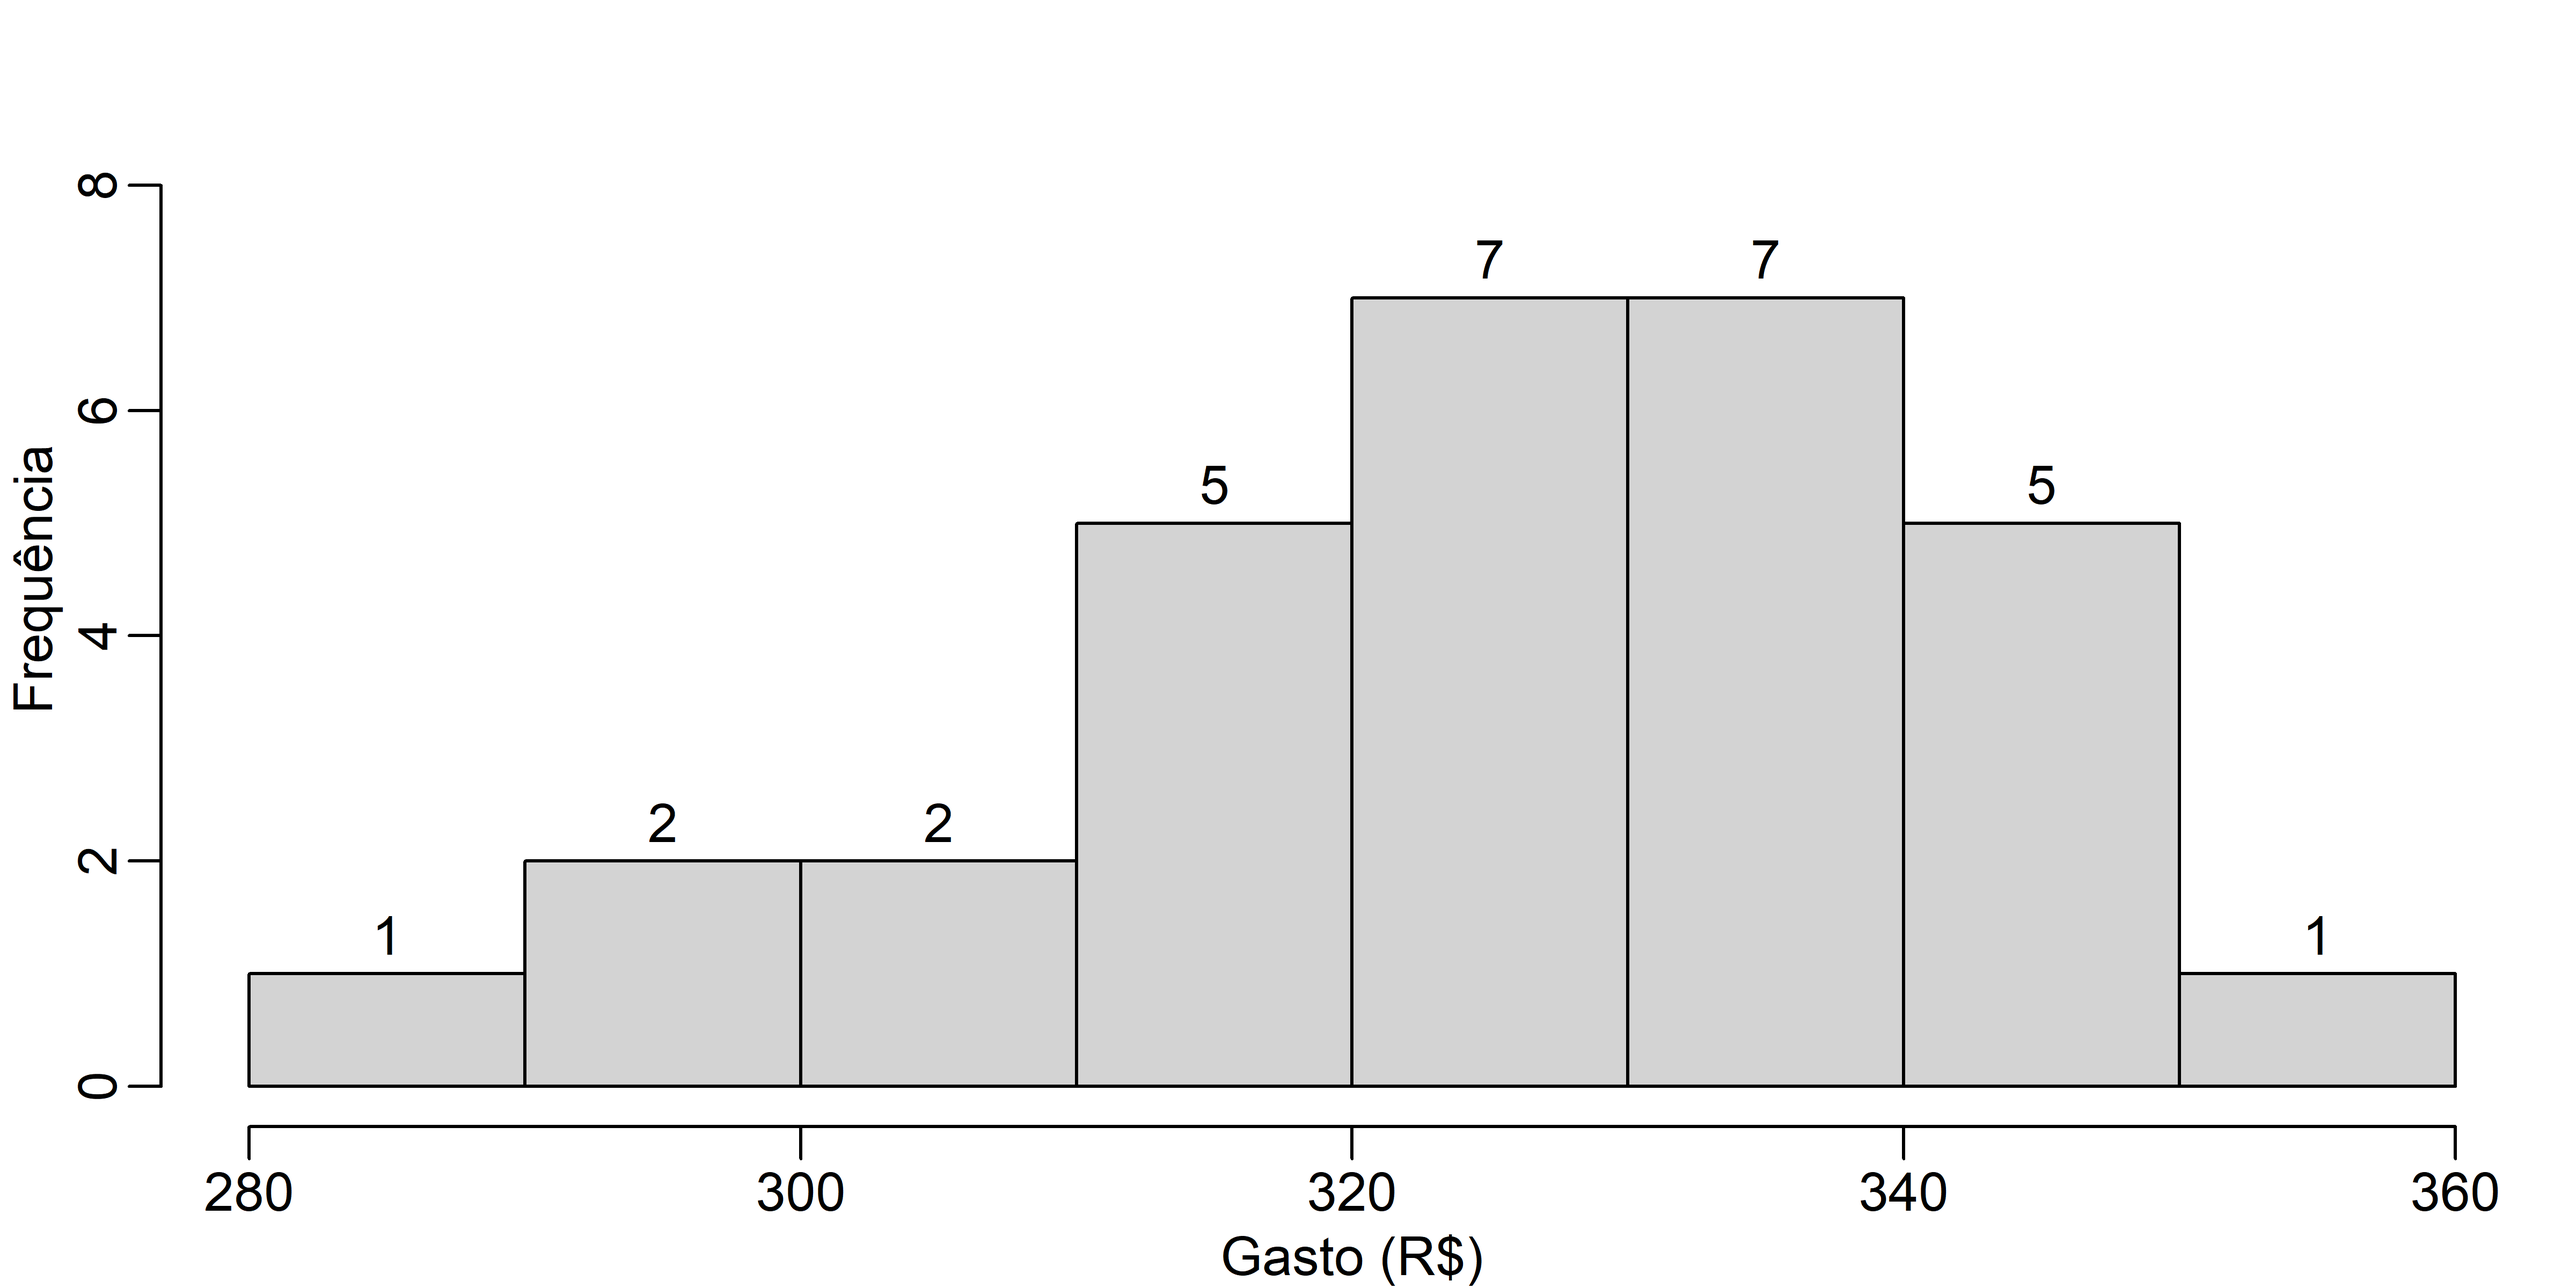
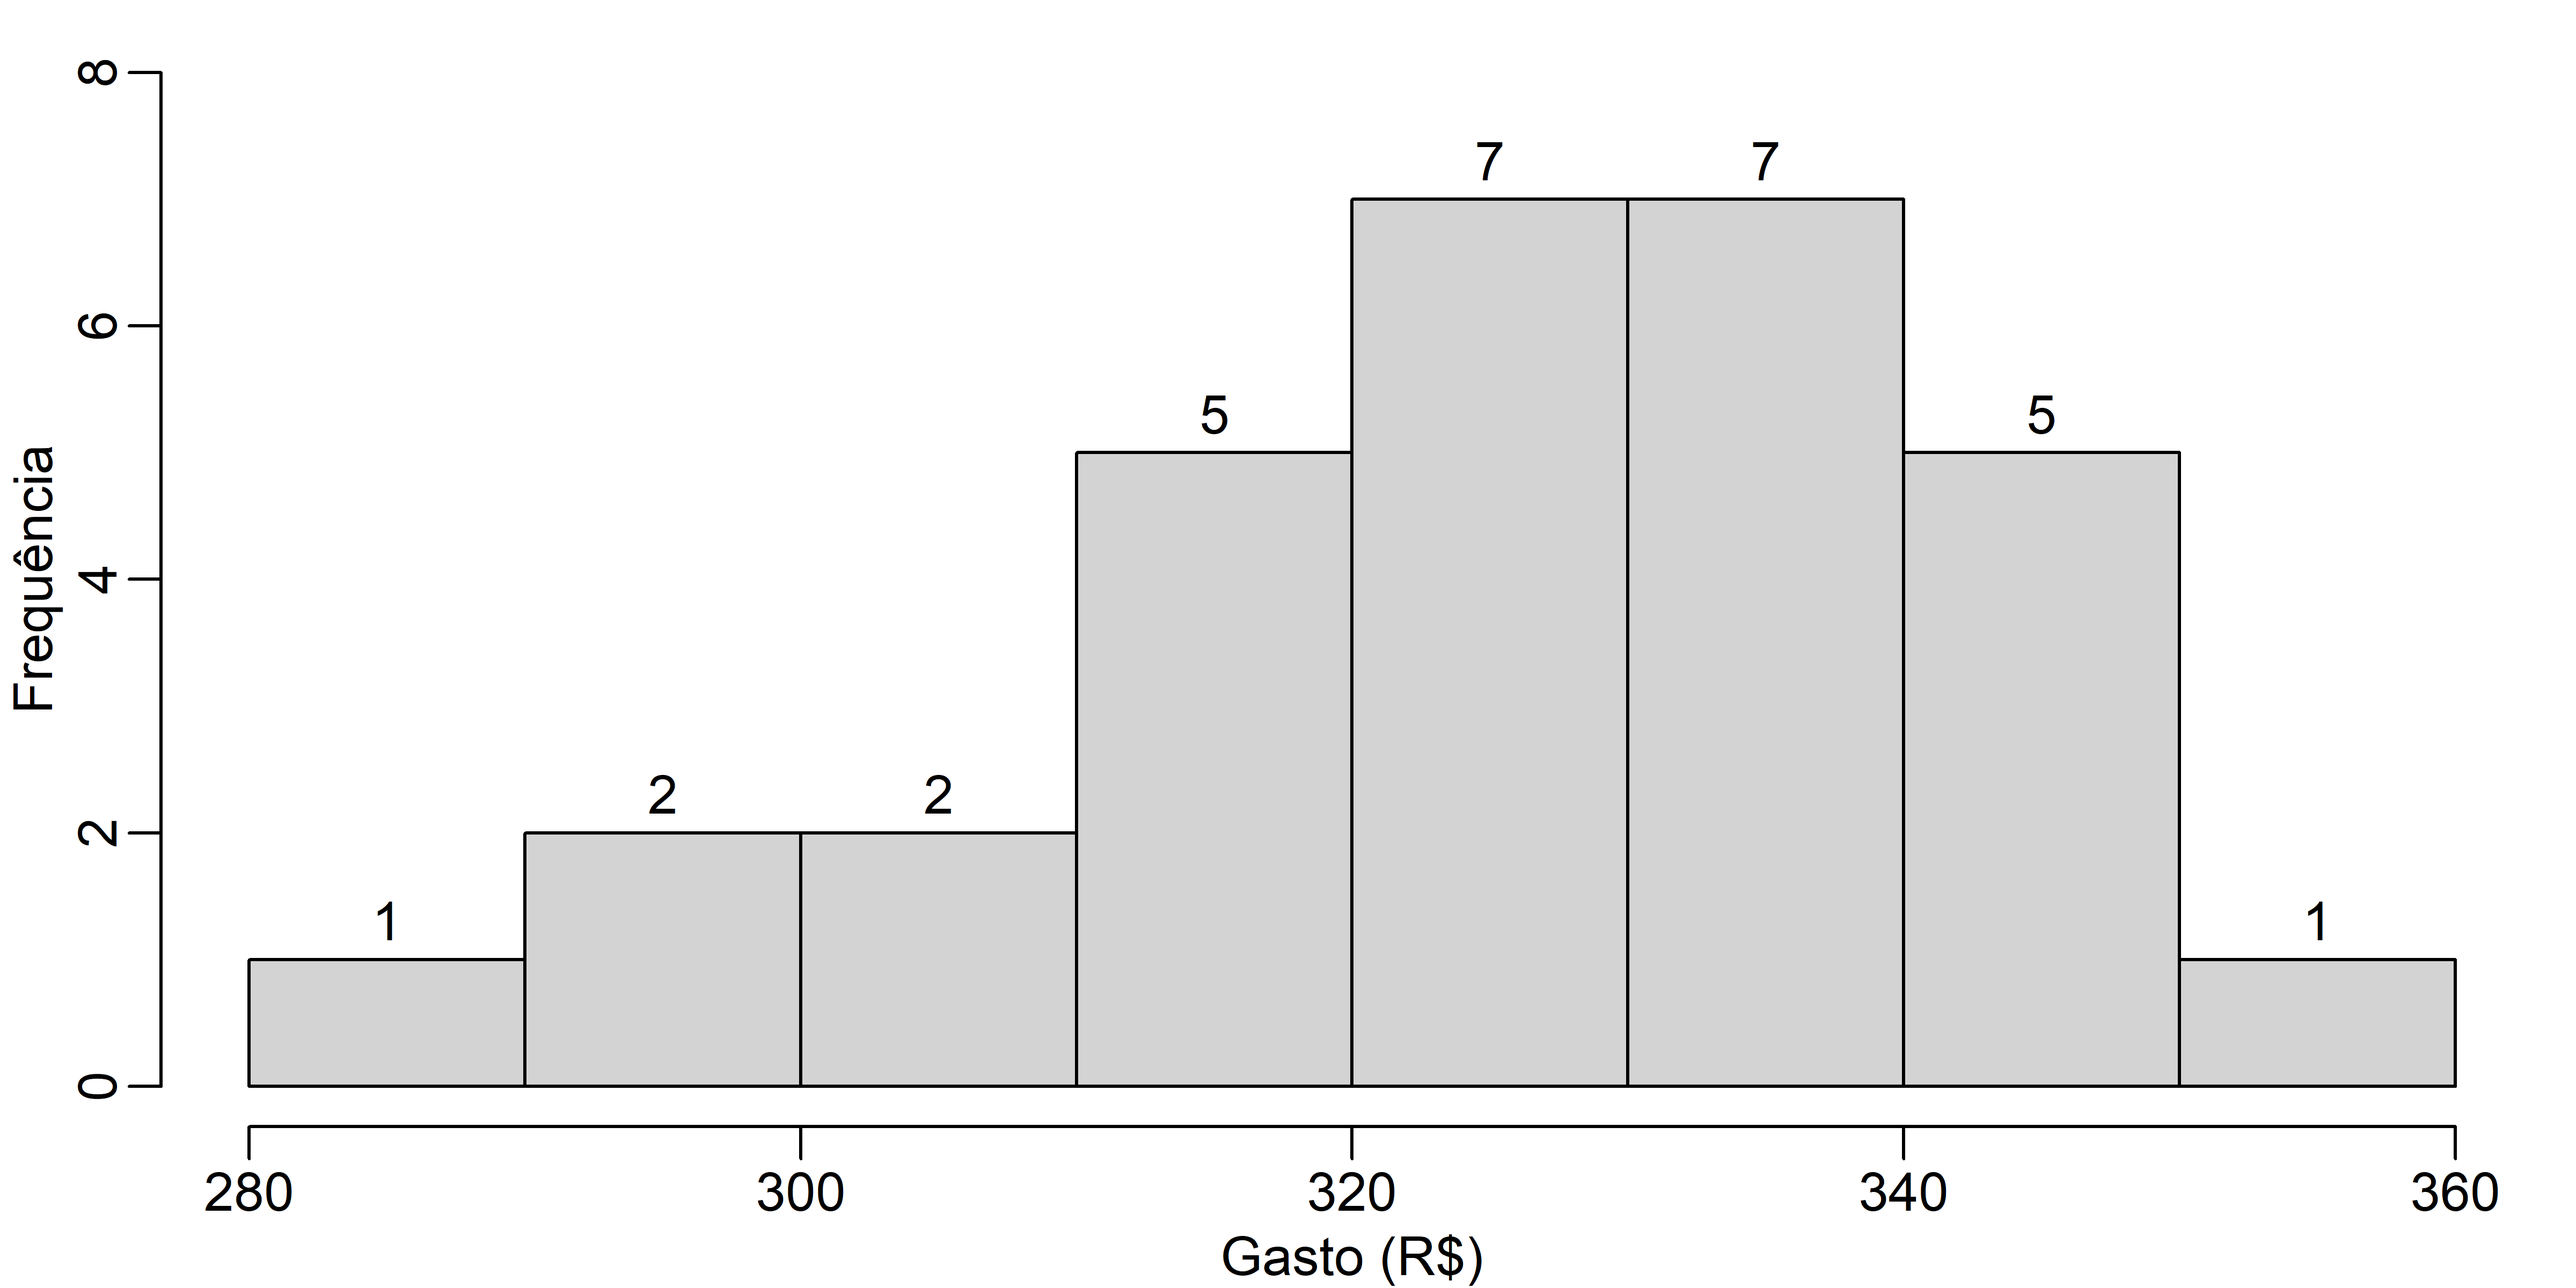
second

diff --git a/_site/lista.html b/_site/lista.html
@@ -521,18 +521,17 @@ code span.wa { color: #60a0b0; font-weight: bold; font-style: italic; } /* Warni
 <li>Faça uma tabela de distribuição de frequências (use o bom senso).</li>
 <li>Esboce um histograma.</li>
 </ul>
-<p>Histograma da frequência absoluta.</p>
 <div class="cell" data-layout-align="center" data-label="fig-hist1">
 <div class="sourceCode cell-code" id="cb29"><pre class="sourceCode r code-with-copy"><code class="sourceCode r"><span id="cb29-1"><a href="#cb29-1" aria-hidden="true" tabindex="-1"></a><span class="fu">par</span>(<span class="at">bg=</span><span class="st">"white"</span>)</span>
 <span id="cb29-2"><a href="#cb29-2" aria-hidden="true" tabindex="-1"></a><span class="fu">par</span>(<span class="at">mar=</span><span class="fu">c</span>(<span class="fl">2.5</span>,<span class="fl">2.5</span>,<span class="fl">0.5</span>,<span class="fl">0.5</span>), <span class="at">mgp=</span><span class="fu">c</span>(<span class="fl">1.5</span>,<span class="fl">0.5</span>,<span class="dv">0</span>))</span>
 <span id="cb29-3"><a href="#cb29-3" aria-hidden="true" tabindex="-1"></a><span class="fu">hist</span>(dados, <span class="at">labels =</span> T, <span class="at">main =</span> <span class="st">""</span>,</span>
 <span id="cb29-4"><a href="#cb29-4" aria-hidden="true" tabindex="-1"></a>     <span class="at">xlab =</span> <span class="st">'Gasto (R$)'</span>, <span class="at">ylab =</span> <span class="st">'Frequência'</span>,</span>
-<span id="cb29-5"><a href="#cb29-5" aria-hidden="true" tabindex="-1"></a>     <span class="at">ylim =</span><span class="fu">c</span>(<span class="dv">0</span>,<span class="dv">9</span>))</span></code><button title="Copy to Clipboard" class="code-copy-button"><i class="bi"></i></button></pre></div>
+<span id="cb29-5"><a href="#cb29-5" aria-hidden="true" tabindex="-1"></a>     <span class="at">ylim =</span><span class="fu">c</span>(<span class="dv">0</span>,<span class="dv">8</span>))</span></code><button title="Copy to Clipboard" class="code-copy-button"><i class="bi"></i></button></pre></div>
 <div class="cell-output-display">
 <div id="fig-hist1" class="quarto-figure quarto-figure-center anchored">
 <figure class="figure">
 <p><img src="lista_files/figure-html/fig-hist1-1.png" class="img-fluid figure-img" width="2400"></p>
-<p></p><figcaption class="figure-caption">Figure&nbsp;2: Histograma (frequência) dos gastos mensais de 30 adolescentes para se alimentarem.</figcaption><p></p>
+<p></p><figcaption class="figure-caption">Figure&nbsp;2: Histograma da frequência absoluta dos gastos mensais de 30 adolescentes para se alimentarem.</figcaption><p></p>
 </figure>
 </div>
 </div>
